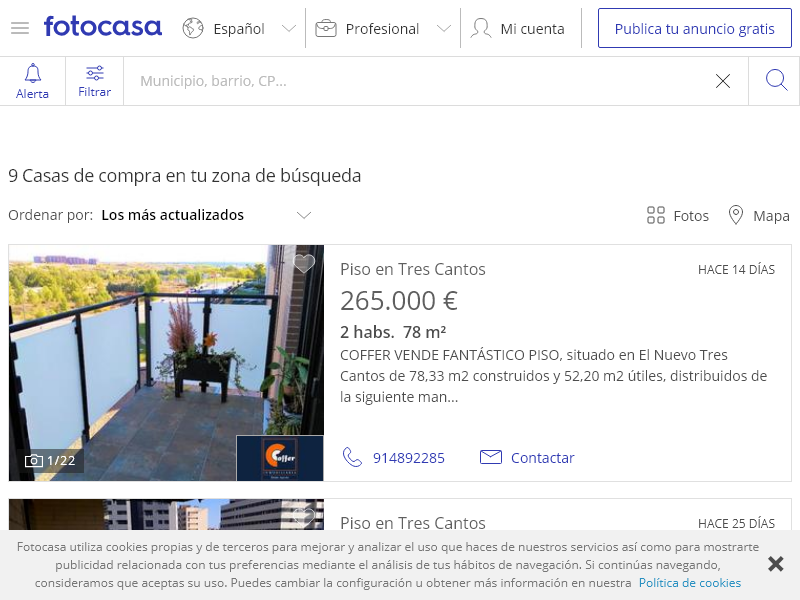
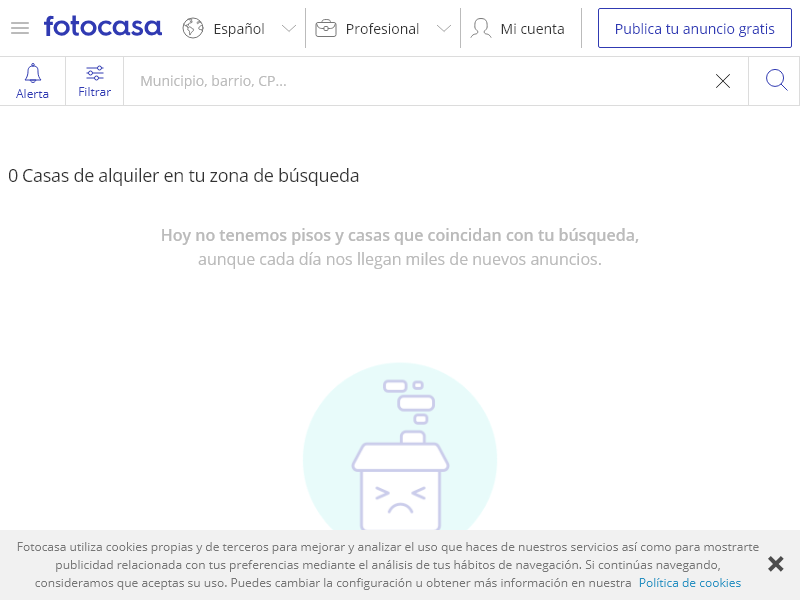
added test and scraping by box instead of cusec

diff --git a/ScraperPuppeteerFotocasaBoudingBox.js b/ScraperPuppeteerFotocasaBoudingBox.js
@@ -1,0 +1,163 @@
+
+const fs = require('fs');
+const FeatureProcessorBoundingBox = require('./FeatureProcessorCityBoundingBox');
+const BoxScraper = require('./FotocasaBoxScraper');
+const MongoSaver = require('./MongoDAO');
+
+module.exports = class ScraperPuppeteerFotocasaCusec {
+    constructor() {
+        require('dotenv').load();
+
+        this.mongoUrl = process.env['MONGO_URL'];
+        this.retries = 3;
+
+        this.separatedFeaturesPath = "./data/separatedFeatures/separatedFeaturesBB.json";
+        this.separatedFeatures = require(this.separatedFeaturesPath);
+        this.scrapingIndexPath = "./data/separatedFeatures/scrapingIndexBB.json";
+        this.scrapingIndex = require(this.scrapingIndexPath);
+
+        this.configPath = "./data/config/scrapingConfig.json"
+        this.config = require(this.configPath);
+        this.featureProcessor = new FeatureProcessorBoundingBox();
+        this.featureProcessor.sessionId = this.config.sessionId;
+
+        this.boxScraper = new BoxScraper();
+        this.appId = "fotocasa";
+        this.mongoSaver = new MongoSaver(this.mongoUrl, this.appId, this.config);
+
+        this.tmpDir = "data/tmp/"
+        this.tmpDirSession = "data/tmp/" + this.config.sessionId;
+        if (!fs.existsSync(this.tmpDir)) {
+            fs.mkdirSync("./" + this.tmpDir);
+        }
+    }
+
+    async main() {
+        console.log("starting app");
+        //this.resetIndex();
+        await this.initializeConfigAndIndex();
+        for (let cityName in this.separatedFeatures.cities) {
+            console.log("-----------------------\n Scraping data from " + cityName + "\n-----------------------");
+            if (!this.scrapingIndex.cities[cityName].scraped) {
+                let cityResults = await this.initializeMunicipio(cityName);
+                for (let pieceName in this.separatedFeatures.cities[cityName].pieces) {
+                    console.log("\n------->" + pieceName)
+                    if (!this.scrapingIndex.cities[cityName].pieces[pieceName]) {
+                        try {
+                            let piece = this.separatedFeatures.cities[cityName].pieces[pieceName];
+                            const scrapedData = await this.extractDataFromPieceBox(piece);
+                            cityResults.pieces[pieceName] = { data: scrapedData, boundingBox: this.separatedFeatures.cities[cityName].pieces[pieceName].boundingBox };
+
+                            this.updateIndex(pieceName, cityName);
+                            await this.saveData(cityResults, cityName, pieceName);
+                        } catch (err) {
+                            console.log(err);
+                        }
+                    }
+                }
+                this.scrapingIndex.cities[cityName].scraped = true;
+            }
+        }
+
+        this.resetIndexAndFinalize();
+    }
+
+    async initializeMunicipio(nmun) {
+        if (!fs.existsSync(this.tmpDirSession)) {
+            fs.mkdirSync("./" + this.tmpDirSession);
+        }
+        if (this.config.useMongoDb) {
+            let municipio = await this.mongoSaver.getMunicipioFromMongo(nmun);
+            if (!municipio) {
+                municipio = this.getNewCityRegistry(nmun);
+            }
+            return municipio;
+        } else {
+            let nmunPath = this.tmpDirSession + "/" + nmun + "---" + this.config.sessionId + ".json";
+            if (fs.existsSync(nmunPath)) {
+                return require("./" + nmunPath);
+            } else {
+                return this.getNewCityRegistry(nmun);
+            }
+        }
+    }
+
+    getNewCityRegistry(nmun) {
+        return { _id: nmun + "---" + this.config.sessionId, cityName: nmun, scrapingId: this.config.sessionId, date: new Date(), pieces: {} }
+    }
+
+
+    async initializeConfigAndIndex() {
+        this.config = require(this.configPath);
+        if (this.config.useMongoDb) {
+            this.scrapingIndex = await this.mongoSaver.getIndexFromMongo();
+            if (!this.scrapingIndex) {
+                console.log("------\n initializing index");
+                await this.featureProcessor.processAllFeaturesAndCreateIndex();
+                this.scrapingIndex = this.featureProcessor.scrapingIndex;
+            }
+        } else {
+            this.scrapingIndex = require(this.scrapingIndexPath);
+        }
+        this.tmpDirSession = "data/tmp/" + this.config.sessionId;
+    }
+
+
+    async extractDataFromPieceBox(piece) {
+        try {
+            const boundingBox = piece.boundingBox;
+            const centerPoint = piece.centerPoint;
+
+            const boxScraperResultsBuy = await this.boxScraper.extractDataFromBox(boundingBox, centerPoint, "comprar");
+            const dataBuy = { number_of_ads: boxScraperResultsBuy.numberOfAds, average_prize: boxScraperResultsBuy.averagePrize, ads_info: boxScraperResultsBuy.adData }
+
+            const boxScraperResultsRent = await this.boxScraper.extractDataFromBox(boundingBox, centerPoint, "alquiler");
+            const dataRent = { number_of_ads: boxScraperResultsRent.numberOfAds, average_prize: boxScraperResultsRent.averagePrize, ads_info: boxScraperResultsRent.adData }
+
+            return { date: new Date(), dataBuy, dataRent };
+
+        } catch (err) {
+            console.log(err);
+            return undefined;
+        }
+    }
+
+
+
+
+    async saveData(municipioResults, nmun, cusecName) {
+        let nmunPath = this.tmpDirSession + "/" + nmun + "---" + this.config.sessionId + ".json";
+        fs.writeFileSync(nmunPath, JSON.stringify(municipioResults));
+        if (this.config.useMongoDb) {
+            await this.mongoSaver.saveDataInMongo(municipioResults, nmun, cusecName, this.scrapingIndex);
+            // await this.updateStateExecMongo(municipioResults.cusec, nmun, true);
+        }
+    }
+
+
+    saveDataAsCSV(municipioResults, nmun) {
+        let nmunPath = this.tmpDirSession + "/" + nmun + "---" + this.config.sessionId + ".csv";
+        const header = "CUSEC;NMUN;N_ANUN;P_MEDIO;FECHA\n"
+
+    }
+
+    updateIndex(cusecName, nmun) {
+        try {
+            this.scrapingIndex.cities[nmun].pieces[cusecName] = true;
+            fs.writeFileSync(this.scrapingIndexPath, JSON.stringify(this.scrapingIndex));
+        } catch (err) {
+            console.log("error saving index");
+            console.log(err);
+            throw err;
+        }
+    }
+
+    async resetIndexAndFinalize() {
+        this.featureProcessor.processAllFeaturesAndCreateIndex();
+        this.date = new Date().toLocaleString().replace(/:/g, '_').replace(/ /g, '_').replace(/\//g, '_');
+        if (this.config.useMongoDb) await this.mongoSaver.updateStateExecMongo("none", "none", false);
+        this.config.sessionId = "scraping-fotocasa-" + this.config.deviceId + "--" + this.date;
+        fs.writeFileSync(this.configPath, JSON.stringify(this.config));
+    }
+
+}

diff --git a/FeatureProcessorCityBoundingBox.js b/FeatureProcessorCityBoundingBox.js
@@ -17,53 +17,75 @@ module.exports = class FeatureProcessorCusec {
             "Paracuellos de Jarama", "Mejorada del Campo", "Algete"]
         */
 
-        this.nMuns = ["Móstoles"];
+        this.cities = ["Móstoles"];
         this.outputDir = outputDir;
         this.outputFilenameFeatures = this.outputDir + "separatedFeaturesBB.json";
         this.outputFilenameIndex = this.outputDir + "scrapingIndexBB.json";
         this.scraper = new ExtractBoundingBoxScraper();
         this.maxSize = 0.005;
+
+        this.scrapingIndex = null;
+        this.foundFeatures = null;
     }
 
-    processAllFeaturesAndCreateIndex() {
-        this.generateProcessedFeaturesAndIndex();
+    async processAllFeaturesAndCreateIndex() {
+        await this.generateProcessedFeaturesAndIndex();
         this.saveInFile();
         //console.log(this.foundFeatures);
     }
 
     async generateProcessedFeaturesAndIndex() {
-        this.scrapingIndex = { "_id": this.sessionId, municipios: {} };
-        this.foundFeatures = {};
+        this.scrapingIndex = { "_id": this.sessionId, cities: {} };
+        this.foundFeatures = { cities: {} };
 
-        for (const nmun of this.nMuns) {
-            const boundingBox = await this.scraper.extractBoundingBoxFromCityName(nmun);
-            this.scrapingIndex.municipios[nmun] = {}
-            const bbId = "mun--" + boundingBox.toString();
-            this.scrapingIndex.municipios[nmun][bbId] = {}
+        for (const cityName of this.cities) {
+            const boundingBox = await this.scraper.extractBoundingBoxFromCityName(cityName);
+            this.foundFeatures.cities[cityName] = { boundingBox: boundingBox, pieces: {} }
+            this.scrapingIndex.cities[cityName] = { scraped: false, pieces: {} }
+
             const length = 10;
-            this.popullateBoundingBoxWithPieces(nmun, bbId, boundingBox, length);
+            const boxCreationResult = this.popullateBoundingBoxWithPieces(boundingBox, length)
+            this.foundFeatures.cities[cityName]["pieces"] = boxCreationResult.childrenSmallBoxes;
+            this.scrapingIndex.cities[cityName]["pieces"] = boxCreationResult.childrenSmallBoxesNamesIndex;
         }
 
     }
 
-    popullateBoundingBoxWithPieces(nmun, bbId, boundingBox, length) {
+    popullateBoundingBoxWithPieces(boundingBox, length) {
+        let childrenSmallBoxes = {}
+        let childrenSmallBoxesNamesIndex = {}
+        const distX = parseFloat(boundingBox[1][0]) - parseFloat(boundingBox[0][0]);
+        const distY = parseFloat(boundingBox[0][1]) - parseFloat(boundingBox[1][1]);
+
         for (let i = 0; i < length; i++) {
             for (let j = 0; j < length; j++) {
-                const newBox00 = parseFloat(boundingBox[0][0]) + (i / length) * parseFloat(boundingBox[1][0]);
-                const newBox01 = parseFloat(boundingBox[0][1]) + (j / length) * parseFloat(boundingBox[1][1]);
 
-                const newBox10 = newBox00 + 1 / length;
-                const newBox11 = newBox01 - 1 / length;
+                const newBox00 = parseFloat(boundingBox[0][0]) + (i / length) * distX;
+                const newBox01 = parseFloat(boundingBox[0][1]) - (j / length) * distY;
+                const newBox10 = newBox00 + (1 / length) * distX;
+                const newBox11 = newBox01 - (1 / length) * distY;
+
                 const box = [[newBox00, newBox01], [newBox10, newBox11]]
-                console.log(box);
-                const boxId = "piece--" + box.toString();
-                this.scrapingIndex.municipios[nmun][bbId][boxId] = box;
+                const pieceBoxId = "piece--" + i + "-" + j;
+                childrenSmallBoxes[pieceBoxId] = {
+                    boundingBox: box, centerPoint: this.getCenterPoint(box)
+                };
+                childrenSmallBoxesNamesIndex[pieceBoxId] = false;
             }
         }
+        return { childrenSmallBoxes, childrenSmallBoxesNamesIndex };
+    }
 
+    getCenterPoint(boundingBox) {
+        return [(boundingBox[0][0] + boundingBox[1][0]) / 2, (boundingBox[0][1] + boundingBox[1][1]) / 2]
     }
 
     saveInFile() {
+        if (!fs.existsSync(this.outputDir)) {
+            fs.mkdirSync(this.outputDir);
+        }
+        fs.writeFileSync(this.outputFilenameFeatures, JSON.stringify(this.foundFeatures));
+        fs.writeFileSync(this.outputFilenameIndex, JSON.stringify(this.scrapingIndex));
 
     }
 

diff --git a/test/popullateBoundingBoxPieces.test.js b/test/popullateBoundingBoxPieces.test.js
@@ -1,0 +1,37 @@
+const chai = require('chai');
+const FeatureProcessorCityBoundingBox = require('../FeatureProcessorCityBoundingBox');
+const assert = chai.assert;
+const chaiAlmost = require('chai-almost');
+chai.use(chaiAlmost(0.01));
+
+const expect = chai.expect;
+describe('App', function () {
+    describe('test the popullation of small bounding boxes from big bounding box in municipio', async function () {
+        const featureProcessor = new FeatureProcessorCityBoundingBox();
+        const boundingBoxTest = [['0', '1'], ['1', '0']]
+
+        const result = featureProcessor.popullateBoundingBoxWithPieces(boundingBoxTest, 3).childrenSmallBoxes;
+
+        it('shoud be not null', function () {
+            console.log("test box");
+            console.log(boundingBoxTest);
+            console.log("result box");
+            console.log(result);
+
+            assert(result !== null);
+        });
+
+        it('last coord y with test box should be close to 0', function () {
+            console.log("test box");
+            console.log(boundingBoxTest);
+
+            const lastKey = Object.keys(result)[Object.keys(result).length - 1]
+            const lastBox = result[lastKey].boundingBox;
+            const lastCoord = lastBox[1][1]
+            console.log("last coord in result pupullated box: " + lastCoord);
+            expect(lastCoord).to.almost.equal(0);
+
+
+        });
+    });
+});

diff --git a/FotocasaBoxScraper.js b/FotocasaBoxScraper.js
@@ -12,9 +12,9 @@ module.exports = class FocotasaBoxScraper {
         this.timeWaitClick = 500;
     }
 
-    async extractDataFromBox(boundingBox, centerPoint) {
-
-        const url = `https://www.fotocasa.es/es/comprar/casas/espana/tu-zona-de-busqueda/l?latitude=40&longitude=-4&combinedLocationIds=724,0,0,0,0,0,0,0,0&gridType=list&mapBoundingBox=${boundingBox[0][0]},${boundingBox[1][1]};${boundingBox[0][0]},${boundingBox[0][1]};${boundingBox[1][0]},${boundingBox[0][1]};${boundingBox[1][0]},${boundingBox[1][1]};${boundingBox[0][0]},${boundingBox[1][1]};&latitudeCenter=${centerPoint[1]}&longitudeCenter=${centerPoint[0]}&zoom=16`
+    async extractDataFromBox(boundingBox, centerPoint, type = "comprar") {
+        //type can be comprar o alquiler
+        const url = `https://www.fotocasa.es/es/${type}/casas/espana/tu-zona-de-busqueda/l?latitude=40&longitude=-4&combinedLocationIds=724,0,0,0,0,0,0,0,0&gridType=list&mapBoundingBox=${boundingBox[0][0]},${boundingBox[1][1]};${boundingBox[0][0]},${boundingBox[0][1]};${boundingBox[1][0]},${boundingBox[0][1]};${boundingBox[1][0]},${boundingBox[1][1]};${boundingBox[0][0]},${boundingBox[1][1]};&latitudeCenter=${centerPoint[1]}&longitudeCenter=${centerPoint[0]}&zoom=16`
 
         console.log("\n---");
         console.log(url);

diff --git a/test/fotocasaBoxScraper.test.js b/test/fotocasaBoxScraper.test.js
@@ -1,0 +1,33 @@
+const chai = require('chai');
+const FotocasaBoxScraper = require("../FotocasaBoxScraper");
+
+const assert = chai.assert;
+const chaiAlmost = require('chai-almost');
+chai.use(chaiAlmost(0.01));
+
+const expect = chai.expect;
+describe('App', function () {
+    describe('test scraper in a given box', async function () {
+        this.timeout(150000);
+
+        const scraper = new FotocasaBoxScraper();
+        const boundingBox = [[
+            -3.711928166620427,
+            40.419080270378565], [
+            -3.708153461055989,
+            40.41613075904495]];
+
+        const centerPoint = [-3.710040813838208, 40.41760551471175];
+
+
+        it('scraping results shoud be not null', async function () {
+            const resultAlquiler = await scraper.extractDataFromBox(boundingBox, centerPoint, "alquiler");
+            const resultCompra = await scraper.extractDataFromBox(boundingBox, centerPoint);
+            assert(resultAlquiler !== null);
+            assert(resultCompra !== null);
+
+        });
+
+
+    });
+});

diff --git a/MongoDAO.js b/MongoDAO.js
@@ -117,14 +117,15 @@ module.exports = class MongoDAO {
     async updateStateExecMongo(cusecName, nmun, active) {
         const scrapingId = this.config.sessionId
         const url = this.mongoUrl;
+        const appId = this.appId
         await this.MongoClient.connect(url, function (err, client) {
             if (err) {
                 console.log(err);
                 throw err;
             }
             try {
-                const dbIndex = "index-" + this.appId + "-db";
-                const collectionNameIndex = "state-execution-" + this.appId + "-scraping";
+                const dbIndex = "index-" + appId + "-db";
+                const collectionNameIndex = "state-execution-" + appId + "-scraping";
                 console.log("updating log in mongodb");
                 const executionDataLogIndex = { "_id": scrapingId, scrapingId: scrapingId, date: new Date(), active: active, lastNmun: nmun, lastCusec: cusecName }
                 const collectionIndex = client.db(dbIndex).collection(collectionNameIndex);

diff --git a/index.js b/index.js
@@ -1,4 +1,12 @@
-const ScraperPuppeteerFotocasa = require("./ScraperPuppeteerFotocasa");
+const config = require("./data/config/scrapingConfig.json")
+let ScraperPuppeteerFotocasa;
+
+if (config.method == "boundingBox") {
+    ScraperPuppeteerFotocasa = require("./ScraperPuppeteerFotocasaBoudingBox");
+} else {
+    ScraperPuppeteerFotocasa = require("./ScraperPuppeteerFotocasaCusec");
+}
+
 
 const app = new ScraperPuppeteerFotocasa();
 app.main();

diff --git a/mantainance-scripts/resetFeaturesAndIndexBB.js b/mantainance-scripts/resetFeaturesAndIndexBB.js
@@ -1,4 +1,4 @@
 const FeatureProcessor = require('../FeatureProcessorCityBoundingBox')
 const config = require("../data/config/scrapingConfig.json")
 const filterer = new FeatureProcessor("../data/", "../data/separatedFeatures/", config.sessionId);
-filterer.processAllFeaturesAndCreateIndex();
+(async () => await filterer.processAllFeaturesAndCreateIndex())();

diff --git a/ScraperPuppeteerFotocasaCusec.js b/ScraperPuppeteerFotocasaCusec.js
@@ -4,7 +4,7 @@ const FeatureProcessorCusec = require('./FeatureProcessorCusec');
 const BoxScraper = require('./FotocasaBoxScraper');
 const MongoSaver = require('./MongoDAO');
 
-module.exports = class ScraperPuppeteerFotocasa {
+module.exports = class ScraperPuppeteerFotocasaCusec {
     constructor() {
         require('dotenv').load();
 
